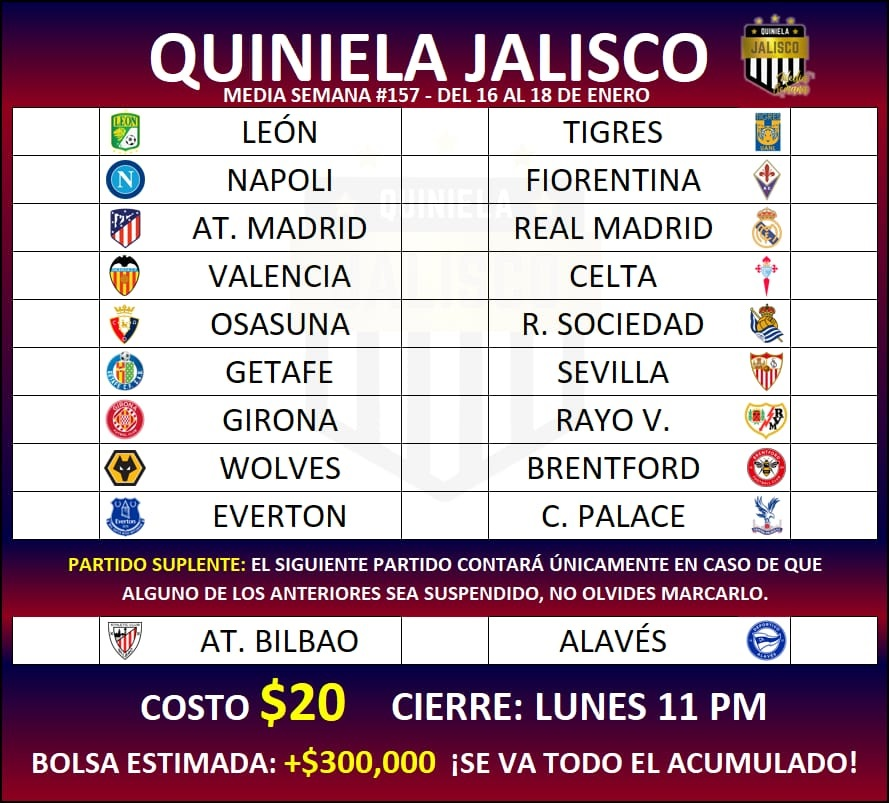
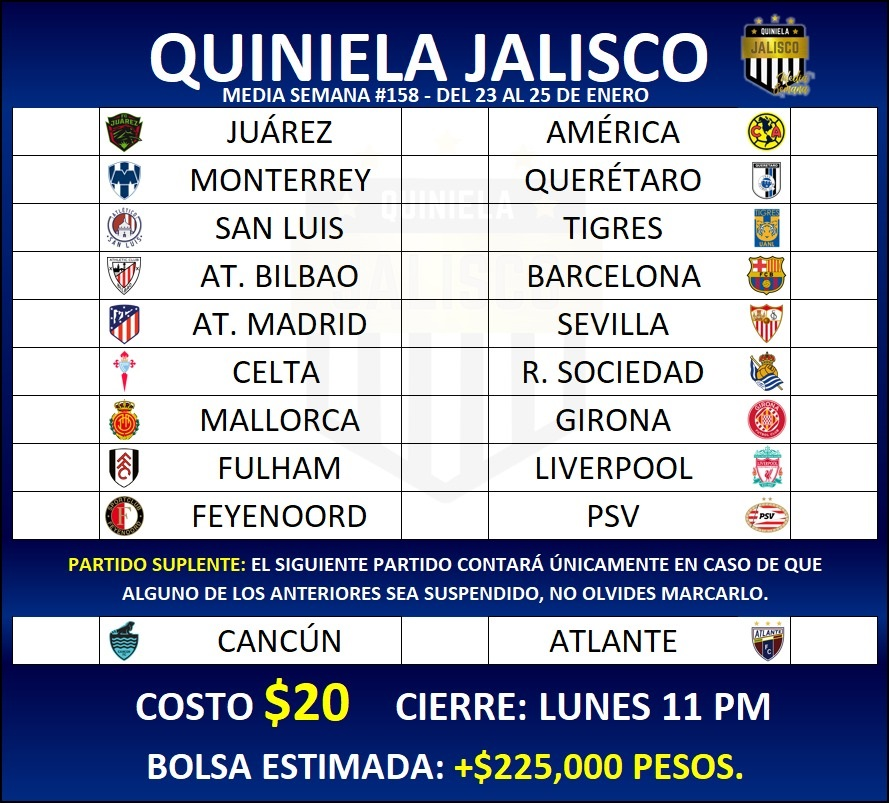
Media Semana #158

diff --git a/MediaSemana/stylesmSusp.css b/MediaSemana/stylesmSusp.css
@@ -94,8 +94,8 @@ body{
     margin-top: 9%;
     border: solid 1px black;
     border-radius: 0 0 14px 14px;
-    background: -webkit-linear-gradient(1turn, rgb(0,8,65) ,rgb(71,0,96) 80%);
-    background: linear-gradient(0.5turn, rgb(83 0 46) ,rgb(0 3 74) 80%);
+    background: -webkit-linear-gradient(1turn, rgb(0,21,100) ,rgb(0 3 74) 80%);
+    background: linear-gradient(0.5turn, rgb(0,21,100) ,rgb(0 3 74) 80%);
 }
 
 .text-lg{
@@ -290,7 +290,7 @@ h6{
 }
 
 #cantidad:before{
-    content:' +$300,000 pesos \A ¡Se va todo el acumulado!';
+    content:' +$225,000 pesos';
     color: yellow;
     white-space:pre;
 }
